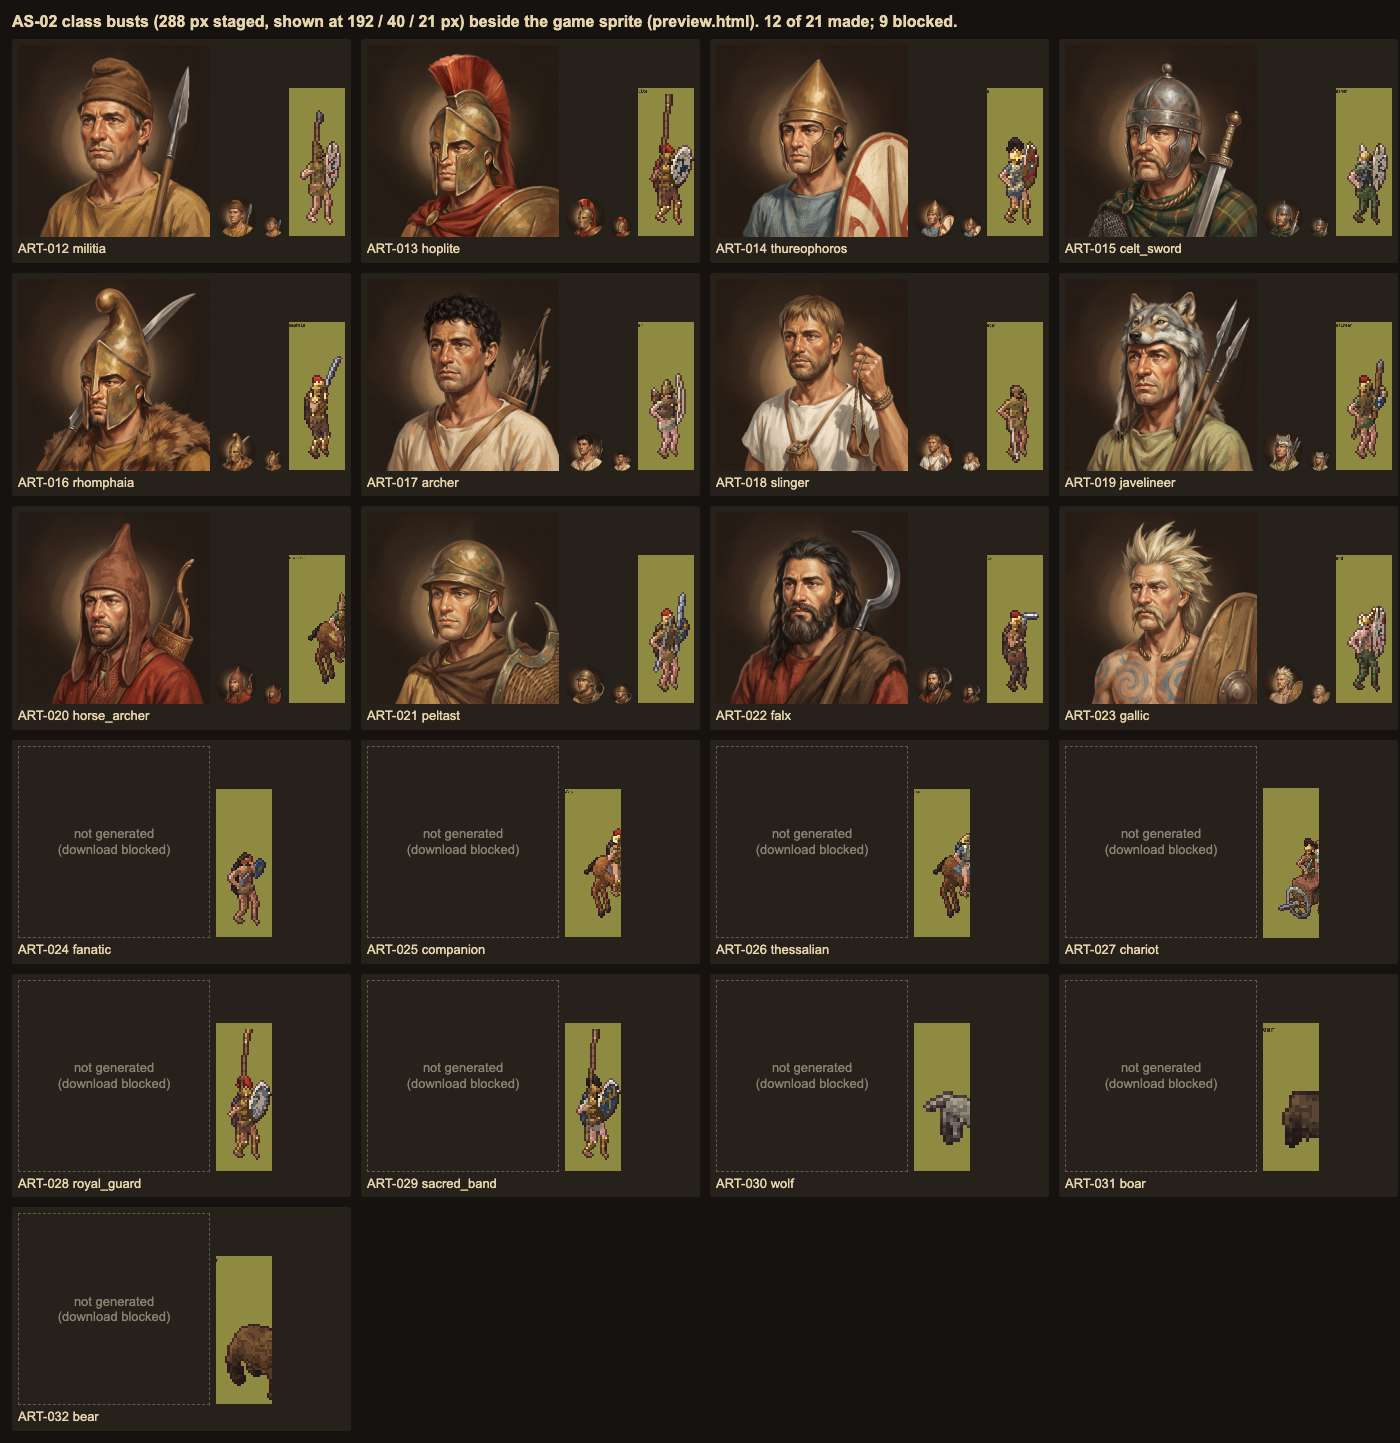
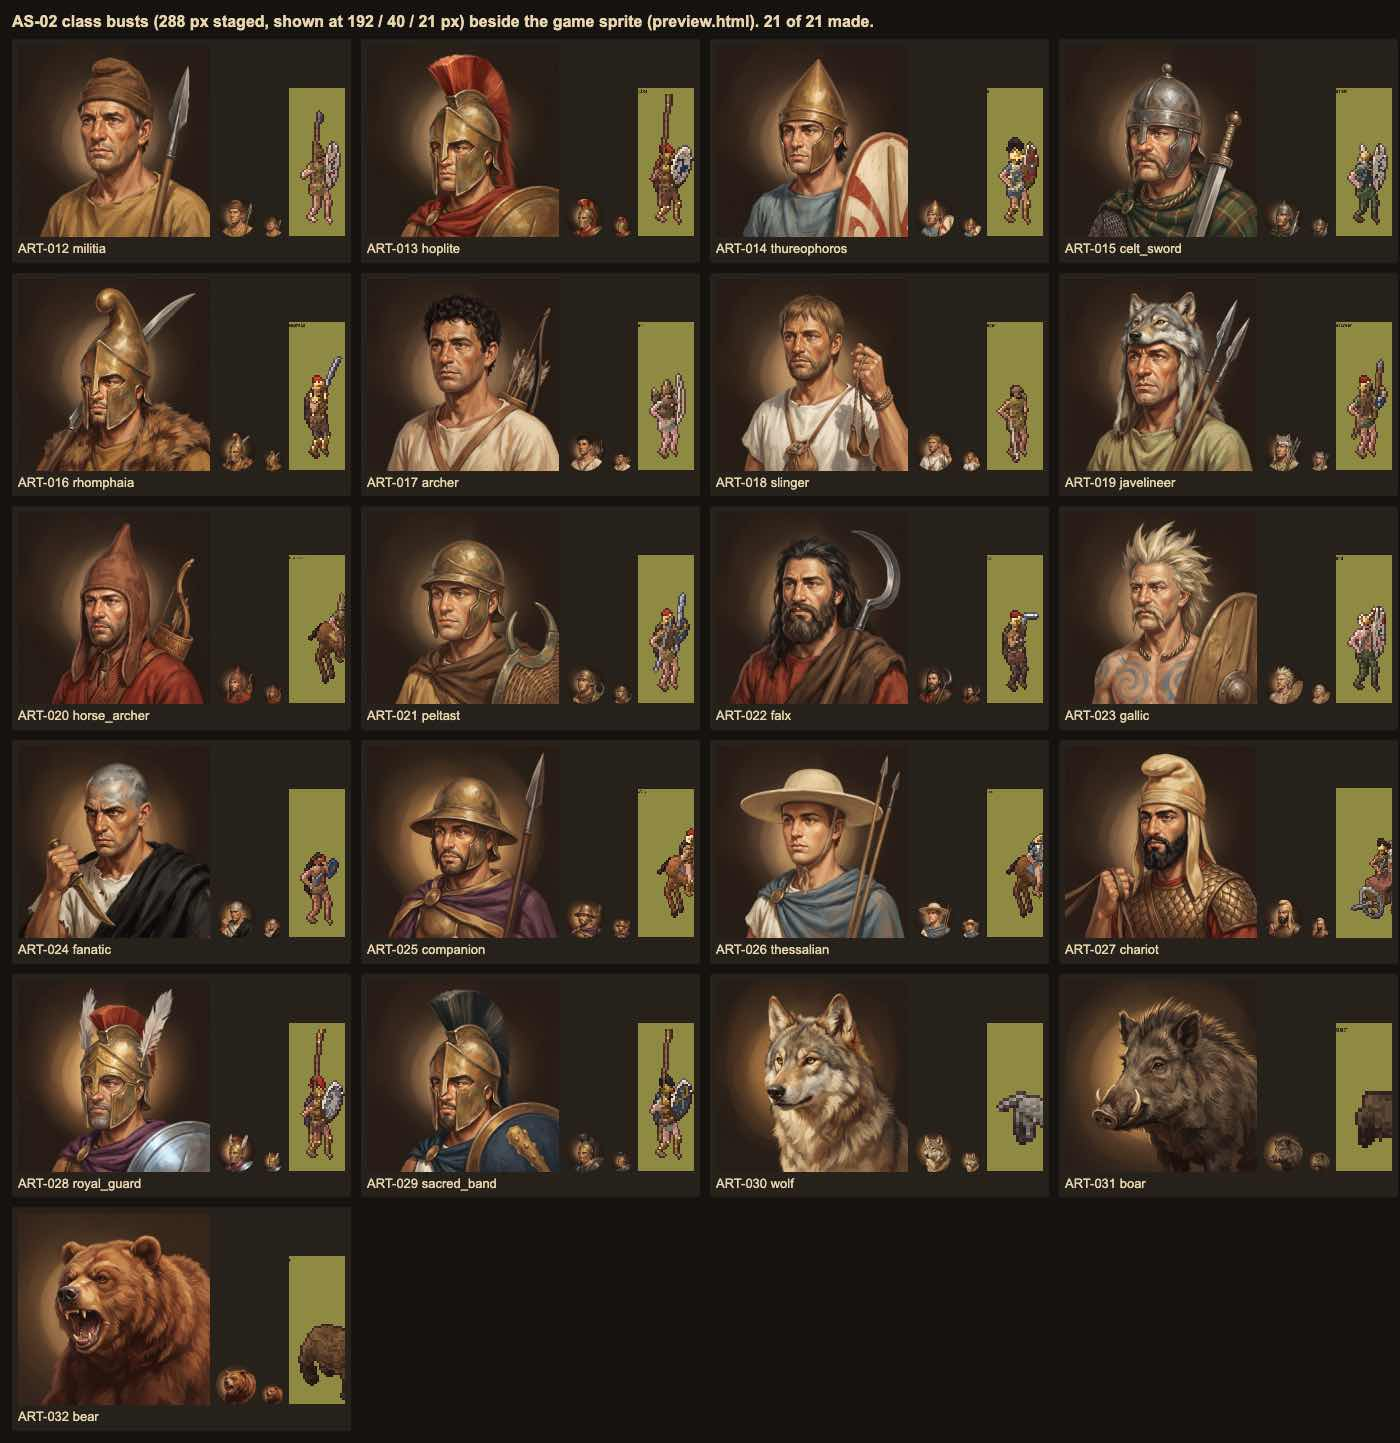
docs(assets): AS-02 remaining 9 class busts staged, 21-bust contact sheet, asset log
Fanatic, companion, thessalian, chariot, royal_guard, sacred_band, wolf, boar and bear made in Gemini with the hoplite seed attached; all 9 accepted first try. Processed to 288x288 (check PASS); not promoted (preview NOT ASSESSED, no game slot). Queue emptied.

diff --git a/docs/v5/ASSET_LOG.md b/docs/v5/ASSET_LOG.md
@@ -4,17 +4,15 @@ Owner: the `assets` agent (the only agent that touches Chrome). Other stories ad
 
 ## Queue
 
-### AS-02 remainder: 9 class busts (blocked 2026-10-10)
-
-Not made yet: ART-024 fanatic, ART-025 companion, ART-026 thessalian, ART-027 chariot, ART-028 royal_guard, ART-029 sacred_band, ART-030 wolf, ART-031 boar, ART-032 bear. The fanatic was generated and looked right, but its file could not be saved (see "Limit hit" under AS-02 in Done). Resume in the same way, with the same seed attached and the subjects listed in the AS-02 entry. The 3 Nikias portraits named in the story row were not in this run's brief, so they are not queued here.
+Empty. (The AS-02 remainder, ART-024 to ART-032, was made on 2026-10-10 and moved to Done.)
 
 ## Done
 
-### AS-02 Class busts, first 12 of 21 (2026-10-10)
+### AS-02 Class busts, all 21 (2026-10-10, in two runs)
 
 **Tool.** gemini.google.com, model "Gemini 3.1 Pro", in one chat. Each prompt was typed as "Create an image…" with no tool picker. Every output is a 2048x2048 JPEG.
 
-**Raws.** Per V5-049 the raws are not in this branch. They are in `/Users/v.gladis/Workspace/Personal/pixelarrow/.claude/worktrees/sd-69ad2c/docs/v5/gemini/AS-02/`, which is gitignored and never deleted. They were briefly committed here, then removed with `git rm --cached`. **Processed** (`process.mjs`, kind painted, cover at anchor 0.5/0.25, area downscale to 288x288, opaque): `docs/v5/gemini/AS-02/processed/bust_<class>.png`, 12 files, 1.9 MB. These are copies of `docs/v5/art/staging/`, which is ignored. **Contact sheet:** `docs/v5/art/AS-02-contact.jpg` (146 KB). It shows each bust at 192, 40 and 21 px beside the game's own sprite from `preview.html`.
+**Raws.** Per V5-049 the raws are not in this branch. They are in `/Users/v.gladis/Workspace/Personal/pixelarrow/.claude/worktrees/sd-69ad2c/docs/v5/gemini/AS-02/`, which is gitignored and never deleted. They were briefly committed here, then removed with `git rm --cached`. **Processed** (`process.mjs`, kind painted, cover at anchor 0.5/0.25, area downscale to 288x288, opaque): `docs/v5/gemini/AS-02/processed/bust_<class>.png`, 21 files, 3.3 MB (12 from run 1, 9 from run 2 below). These are copies of `docs/v5/art/staging/`, which is ignored. **Contact sheet:** `docs/v5/art/AS-02-contact.jpg` (138 KB, all 21, regenerated in run 2). It shows each bust at 192, 40 and 21 px beside the game's own sprite from `preview.html`.
 
 **Family seed.** Following the ASSET_LOG Templates, `bust_hoplite` was made first from T-STYLE + T-BUST. The prompt added "It shows a CLASS of soldier (a type), not a named hero" (V5-045) and "eyes looking toward the viewer's left". It was approved, and a 1024 px copy was then attached to **every** later prompt as the style reference.
 
@@ -47,7 +45,7 @@ These last three are queued, not made. The bible's "no two classes share a headg
 | 11 | 021 | `ART-021_bust_peltast_2.jpg` | as #10 but: a LOW, ROUNDED open-faced bronze helmet hugging the skull, short brim-like peak, long cheek guards; NO tall crown, NO curving tip, NO crest; the crescent pelte is the main prop | **Accepted** | Distinct from the rhomphaia. The two horns of the pelte read clearly. |
 | 12 | 022 | `ART-022_bust_falx_1.jpg` | a Thracian falx warrior: bare head, long dark hair, full beard, brown wool cloak over a red tunic, the inward-curved blade of a two-handed falx over his shoulder | **Accepted** | |
 | 13 | 023 | `ART-023_bust_gallic_1.jpg` | a Gallic warband warrior: limed pale spiky hair, long moustache, bare chest with blue woad swirls, bronze torc, the upper edge of a long oval shield with an iron boss | **Accepted** | |
-| 14 | 024 | (not saved) | a cult fanatic: shaved head, grey ash on face and scalp, fierce stare, torn white tunic, black cloak, a short curved bronze knife raised; expression: intense, mouth closed (the bible's one grimace exception); EXCLUDE adds blood | **Looked right, not saved** | Seen in the chat: bald, ash-grey, knife raised, black cloak, no text. Download blocked (below). |
+| 14 | 024 | (not saved) | a cult fanatic: shaved head, grey ash on face and scalp, fierce stare, torn white tunic, black cloak, a short curved bronze knife raised; expression: intense, mouth closed (the bible's one grimace exception); EXCLUDE adds blood | **Looked right, not saved** | Seen in the chat: bald, ash-grey, knife raised, black cloak, no text. Download blocked (below). Remade in run 2 (#15). |
 
 **Totals:** 14 renders, 12 accepted, 1 rejected and regenerated (peltast: a headgear silhouette clash), and 1 not saved (fanatic). No render had text, extra limbs or modern objects. Faces share one "family" look because every render had the seed attached, and that is intended.
 
@@ -58,6 +56,43 @@ These last three are queued, not made. The bible's "no two classes share a headg
 **Limit hit.** After the 14th render, Gemini's "Download full size image" fetched the image (network 200) but no file reached `~/Downloads`. It failed three times, by script click and by real click. This looks like Chrome's per-site "automatic multiple downloads" block. Changing it is a browser setting, so it was left alone, and two workarounds were denied by the permission system: a localhost receiver, and a second tab to inspect. Following the brief, Gemini use stopped there. No CAPTCHA or quota message appeared. To resume, the owner allows multiple downloads for gemini.google.com in Chrome, then the 9 in the Queue are run.
 
 **Housekeeping.** An earlier version of the helper script moved an older, unrelated Gemini file (an icon sheet from 2026-10-09) out of `~/Downloads` by mistake. It was put back as `~/Downloads/Gemini_Generated_Image_restored-from-oct09.jpg`.
+
+#### Run 2: the remaining 9 (2026-10-10, after the owner allowed multiple downloads for gemini.google.com)
+
+**Tool.** Same as run 1: gemini.google.com, "Pro" mode, one new chat in a new tab, no tool picker, the same 1024 px `seed_hoplite.jpg` attached to **every** prompt through the page's hidden image input. Every output is a 2048x2048 JPEG. No CAPTCHA, quota message or download block: all 9 downloads arrived. Each new file in `~/Downloads` was moved by a script that takes only a `Gemini_Generated_Image_*` file absent from a listing made at the run's start and newer than the start time, and refuses if more than one matches; `~/Downloads` matched its start listing at the end. The tab was closed.
+
+**Prompts.** Soldiers: the family prompt above, word for word, with {SUBJECT} from the table (fanatic: EXCLUDE adds "blood" and EXPRESSION is "intense, mouth closed"; chariot: EXCLUDE adds "horses, wheels"; sacred_band: EXCLUDE adds "anything red"). Beasts: there is no beast-plate style for busts in the art bible (T-PLATE is for myth plates), so they use T-BUST-BEAST merged into the same family prompt:
+
+```
+Create a NEW image, not an edit of the reference. Match the attached reference exactly in style, palette, brushwork, lighting and background; change the subject to an animal. It is one of a matching set of unit portraits for a mobile strategy game; this one shows a wild animal that fights as a unit (a type of animal, no human). STYLE: [as the family prompt]. EXCLUDE: any text, letters, numbers, signatures, watermarks, logos, borders or frames, people, collars, harness, armour, modern objects, extra legs, two heads, duplicated animals, cropped ears{, or tusks}, blood. SUBJECT: {SUBJECT}. FRAMING: head and shoulders, three-quarter view turned toward the viewer's left, the head filling the upper two thirds of the image, the tips of the ears 6 to 10 percent below the top edge and fully inside the frame, shoulders cut by the bottom edge, the head inside the central circle; the head silhouette {and the tusks / the open mouth} are the clearest, most contrasting shapes. BACKGROUND: the same plain dark warm umber as the reference with a soft lighter glow behind the head, no scenery. EXPRESSION: {alert, watchful / alert, stubborn / menacing}, eyes toward the viewer's left. ASPECT: square 1:1, highest resolution available.
+```
+
+**Kit decisions (V5-050: the kit wins where the bible's table disagrees).**
+- **companion:** the kit's Boeotian helmet, drawn as bronze with a domed crown and wide brim; purple cloak with an ochre border (`cloakPurple`), xyston.
+- **thessalian:** the kit also says Boeotian, which would give the companion's silhouette. Following ASSET_LIST ("petasos hat over a bronze helmet") it is a cream **felt** petasos with a very flat, very wide brim and a low crown, so it differs from the companion in material, colour and shape; blue cloak (`cloakBlue`), two javelins.
+- **chariot:** the kit's `persian_tiara`, asked for low, soft and cream so it does not repeat the horse archer's tall red pointed hood; scale armour, red tunic, reins.
+- **royal_guard:** the kit's Attic helmet, gilded, with the sprite's red crest and the bible's white plumes; the argyraspis is the silver shield; purple cloak.
+- **sacred_band:** per V5-050, the kit's Corinthian helmet, told apart from the hoplite by a black crest, a dark blue cloak and a blue shield with a gold Theban club.
+
+| # | ART | Raw (v5 worktree) | SUBJECT | Verdict | Notes |
+| --- | --- | --- | --- | --- | --- |
+| 15 | 024 | `ART-024_bust_fanatic_1.jpg` | a cult fanatic: shaved head, grey ash on face and scalp, fierce stare, torn white tunic, black cloak, a short curved bronze knife raised | **Accepted** | Bald, ash-grey scalp, knife in a raised fist, torn white tunic, black cloak (kit `tunicWhite` + `cloakBlack`). Hand anatomy correct. A few small brown stains on the tunic read as dirt, not blood. |
+| 16 | 025 | `ART-025_bust_companion_1.jpg` | a Macedonian Companion cavalryman: bronze Boeotian helmet (an open face, a wide flaring brim all round like a hat, no crest, no plume), short dark beard, a deep purple cloak with a broad ochre-gold border pinned at the shoulder over a bronze muscled cuirass, the long wooden shaft and iron head of a cavalry lance (xyston) held upright beside his shoulder; no shield | **Accepted** | Brim and lance are the two clearest shapes. No hand on the lance, which is fine at 40 px. |
+| 17 | 026 | `ART-026_bust_thessalian_1.jpg` | a Thessalian light horseman: a pale cream FELT petasos sun hat with a very FLAT, very WIDE round brim and a LOW shallow crown, tied with a cord under the chin (cloth, not metal), young clean-shaven face, a short Egyptian-blue chlamys cloak pinned at the shoulder over a white tunic, exactly two light javelins held upright beside his shoulder | **Accepted** | Exactly two javelins. The brim reaches about 13% from each side edge, still inside the frame. Distinct from the companion at 21 px (cream against bronze, blue against purple). |
+| 18 | 027 | `ART-027_bust_chariot_1.jpg` | a Persian-style scythed-chariot driver: a soft cream-and-ochre felt Persian tiara cap, LOW and ROUNDED, its top bending forward, with a cloth band round the brow and long side flaps hanging loose at the cheeks (NOT tall, NOT pointed, NOT tied under the chin), black curled beard, red tunic under a shirt of overlapping bronze SCALE armour, one raised fist gripping the leather reins, the reins running out of the frame | **Accepted** | The cap came out taller than asked, but it is cream, soft and folded forward, so it doesn't read as the horse archer's red hood. Top about 4% below the edge, not cropped. Scale armour and reins clear. No horses or wheels. |
+| 19 | 028 | `ART-028_bust_royal_guard_1.jpg` | a Macedonian royal guardsman (a silver-shield man): a GILDED Attic helmet with the face open, a short brow peak, hinged cheek pieces, a low red horsehair crest running front to back and two upright white feather plumes, one at each side of the helmet; short grey-flecked beard; bronze muscled cuirass, a purple cloak; the polished SILVER rim and face of a round shield at his shoulder, the brightest cool shape in the image | **Accepted** | The helmet has a small nasal guard, which an Attic helmet shouldn't have, but the face is open and the two white plumes plus the silver shield make it unmistakable. Plume tips about 4% below the top edge. |
+| 20 | 029 | `ART-029_bust_sacred_band_1.jpg` | a Theban Sacred Band hoplite: the same kind of bronze Corinthian helmet as the reference but with a tall DARK charcoal-black horsehair crest; a dark Egyptian-blue cloak, white linen corselet; at his shoulder the round bronze-rimmed shield, its face painted dark blue with one large golden Herakles CLUB emblem (a single knobbly wooden club, drawn as a picture, not a letter), the club clearly visible. NO red anywhere | **Accepted** | Meets V5-050: black crest, dark blue cloak, blue shield with a large gold club, no red. Side by side with the hoplite, it reads differently at 21 px. |
+| 21 | 030 | `ART-030_bust_wolf_1.jpg` | a grey wolf: grey and tawny fur with a pale muzzle and throat, ears pricked up, amber eyes, mouth closed | **Accepted** | Ears inside the frame. Warmer (more tawny) than the sprite's grey, but within the subject. Easy to tell from the javelineer's wolfskin cap, because that bust has a human face. |
+| 22 | 031 | `ART-031_bust_boar_1.jpg` | a wild boar: dark brown-grey coarse coat, a bristling dark mane standing up along the neck and back, small dark eye, long snout, two curved pale ivory tusks curling up from the lower jaw, clearly visible | **Accepted** | Two tusks (the far one at the snout tip). The mane silhouette is strong. |
+| 23 | 032 | `ART-032_bust_bear_1.jpg` | a huge brown bear: thick reddish-brown fur, a heavy brow ridge, small round ears, mouth open in a low roar showing teeth and fangs, a massive hump of shoulder | **Accepted** | Open mouth as in ASSET_LIST. Jaw and ears inside the frame. Beasts are exempt from the "mouth closed" rule (§5.4 covers soldiers). |
+
+**Run 2 totals:** 9 renders, 9 accepted on the first try, 0 regenerated. No render had text, extra limbs or modern objects. **All AS-02 busts:** 23 renders, 21 accepted, 1 rejected (peltast #10), 1 not saved (fanatic #14, remade as #15).
+
+**Run 2 pipeline.** `process.mjs ART-024 … ART-032` (kind painted, 288x288, opaque, key residue 0), then `check.mjs` gave 9 PASS. `preview.mjs ART-024` gave **NOT ASSESSED** (exit 3, no game slot loads `bust_*`), and `promote.mjs ART-024 --looked` was **REFUSED** (no preview record). **Nothing promoted**, and `public/` is untouched. The 9 are copied into `processed/` with status NOT ASSESSED, like the first 12.
+
+**Contact sheet.** `docs/v5/art/AS-02-contact.jpg` was regenerated with all 21 (1400x1443, JPEG q30, 138 KB) from the same HTML layout and the same `preview.html` sprite crops. Looking at the whole sheet, the 9 new busts match the first 12 in background, glow, light direction and framing. They are slightly smoother and less craquelured than the seed, which is acceptable at 21 to 46 px.
+
+**For the art-director.** §5.2 of the art bible still lists thessalian as "petasos hat", sacred_band as "Boeotian helm" and royal_guard as "gilded Thracian helm". The busts follow V5-050 and the kit instead (thessalian: petasos over the kit's Boeotian, which keeps it apart from the companion). The table should be updated in the next art story, as V5-050 says.
 
 
 ### AS-01 Hub mockup directions A, B, C (2026-10-10)
